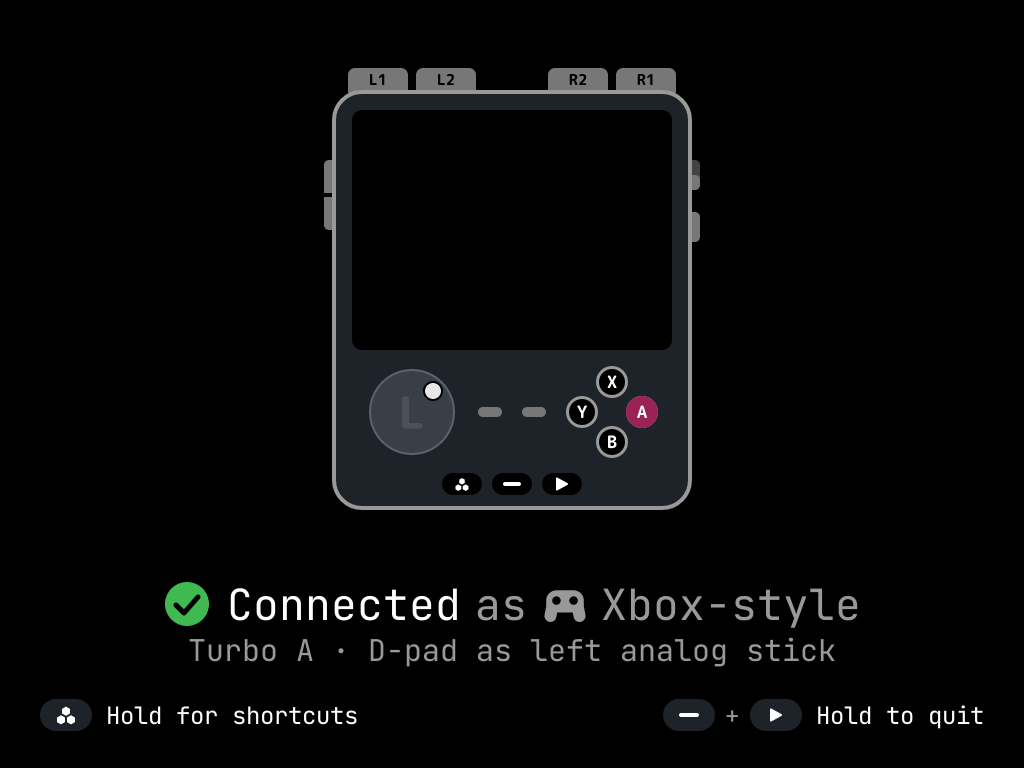
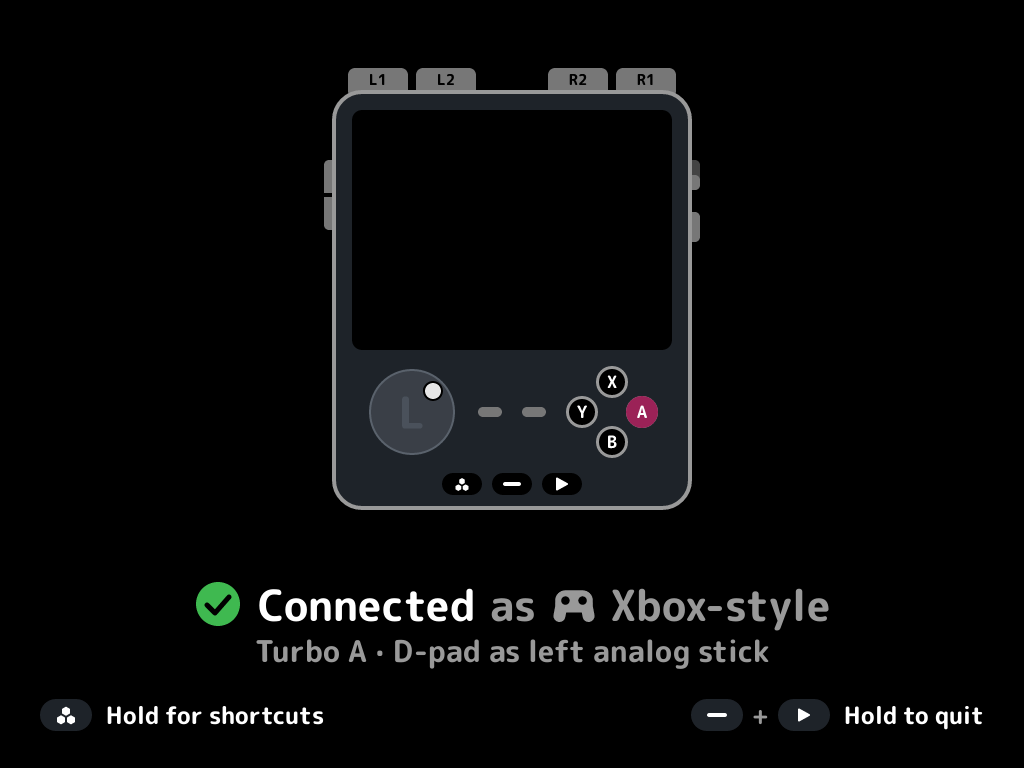
feat: render screenshots on the computer
The screen helper can size its window and save each frame as a BMP,
so just screenshots draws through SDL's offscreen driver on the
computer instead of reading the Brick's framebuffer over SSH. It uses
NextUI's font1.ttf, pinned by commit and SHA-256, and the dev shell
provides SDL2, SDL2_ttf and SDL2_image.

Changed region(s): [[0.1562, 0.75, 0.8438, 0.875], [0.625, 0.9062, 0.9688, 0.9688], [0.0938, 0.9062, 0.3438, 0.9688]]

diff --git a/screen/src/main.rs b/screen/src/main.rs
@@ -10,7 +10,7 @@ use layout::{Align, Op, Paint, Role};
 use pocket_controller::frame::FrameReader;
 use sdl::{Color, Font, Rect, Screen, Sdl};
 
-const USAGE: &str = "usage: pocket-controller-screen --font PATH [--assets DIR] [--device NAME]";
+const USAGE: &str = "usage: pocket-controller-screen --font PATH [--assets DIR] [--device NAME] [--size WIDTHxHEIGHT --snapshots DIR]";
 const BUFFERS: usize = 2;
 const LINE_SPACING_PERCENT: i32 = 115;
 
@@ -175,17 +175,20 @@ fn draw(screen: &Screen, fonts: &Fonts, images: &Images, ops: &[Op]) {
 fn run() -> Result<(), String> {
     let mut arguments = std::env::args().skip(1);
     let (mut font_path, mut assets, mut device_name) = (None, None, None);
+    let (mut size, mut snapshots) = (None, None);
     while let Some(argument) = arguments.next() {
         match (argument.as_str(), arguments.next()) {
             ("--font", Some(path)) => font_path = Some(path),
             ("--assets", Some(path)) => assets = Some(path),
             ("--device", Some(name)) => device_name = Some(name),
+            ("--size", Some(text)) => size = Some(parse_size(&text).ok_or(USAGE)?),
+            ("--snapshots", Some(path)) => snapshots = Some(path),
             _ => return Err(USAGE.to_string()),
         }
     }
     let font_path = font_path.ok_or(USAGE)?;
     let sdl = Sdl::load()?;
-    let screen = sdl.open_screen()?;
+    let screen = sdl.open_screen(size)?;
     let (width, height) = screen.size();
     let fonts = Fonts::open(&sdl, &font_path, width)?;
     let (device, images) = match (assets.as_deref(), device_name) {
@@ -211,6 +214,7 @@ fn run() -> Result<(), String> {
         ),
     };
     let mut reader = FrameReader::new();
+    let mut drawn: u32 = 0;
     for line in std::io::stdin().lock().lines() {
         let line = line.map_err(|error| format!("could not read frames: {error}"))?;
         match reader.push_line(&line) {
@@ -222,6 +226,10 @@ fn run() -> Result<(), String> {
                     &images,
                     &layout::layout(&frame, width, height, &measure, &device),
                 );
+                drawn += 1;
+                if let Some(directory) = &snapshots {
+                    screen.save_bmp(&format!("{directory}/{drawn}.bmp"))?;
+                }
             }
             Some(None) => eprintln!("pocket-controller-screen: skipped a frame it could not read"),
             None => {}
@@ -232,6 +240,11 @@ fn run() -> Result<(), String> {
         screen.present();
     }
     Ok(())
+}
+
+fn parse_size(text: &str) -> Option<(i32, i32)> {
+    let (width, height) = text.split_once('x')?;
+    Some((width.parse().ok()?, height.parse().ok()?))
 }
 
 fn main() -> ExitCode {

diff --git a/screen/src/sdl.rs b/screen/src/sdl.rs
@@ -99,6 +99,8 @@ pub struct Sdl {
     fill_rect: unsafe extern "C" fn(*mut Surface, *const Rect, u32) -> c_int,
     upper_blit: unsafe extern "C" fn(*mut Surface, *const Rect, *mut Surface, *mut Rect) -> c_int,
     free_surface: unsafe extern "C" fn(*mut Surface),
+    rw_from_file: unsafe extern "C" fn(*const c_char, *const c_char) -> *mut c_void,
+    save_bmp_rw: unsafe extern "C" fn(*mut Surface, *mut c_void, c_int) -> c_int,
     ttf_init: unsafe extern "C" fn() -> c_int,
     ttf_open_font: unsafe extern "C" fn(*const c_char, c_int) -> *mut Font,
     ttf_size_utf8: unsafe extern "C" fn(*mut Font, *const c_char, *mut c_int, *mut c_int) -> c_int,
@@ -137,6 +139,8 @@ impl Sdl {
             fill_rect: sdl.symbol("SDL_FillRect")?,
             upper_blit: sdl.symbol("SDL_UpperBlit")?,
             free_surface: sdl.symbol("SDL_FreeSurface")?,
+            rw_from_file: sdl.symbol("SDL_RWFromFile")?,
+            save_bmp_rw: sdl.symbol("SDL_SaveBMP_RW")?,
             ttf_init: ttf.symbol("TTF_Init")?,
             ttf_open_font: ttf.symbol("TTF_OpenFont")?,
             ttf_size_utf8: ttf.symbol("TTF_SizeUTF8")?,
@@ -160,7 +164,8 @@ impl Sdl {
         }
     }
 
-    pub fn open_screen(&self) -> Result<Screen<'_>, String> {
+    pub fn open_screen(&self, size: Option<(c_int, c_int)>) -> Result<Screen<'_>, String> {
+        let (width, height) = size.unwrap_or((0, 0));
         if unsafe { (self.init)(INIT_VIDEO) } < 0 {
             return Err(format!("SDL_Init failed: {}", self.error()));
         }
@@ -171,8 +176,8 @@ impl Sdl {
                 title.as_ptr(),
                 WINDOWPOS_UNDEFINED,
                 WINDOWPOS_UNDEFINED,
-                0,
-                0,
+                width,
+                height,
                 WINDOW_SHOWN,
             )
         };
@@ -276,6 +281,18 @@ impl Screen<'_> {
     pub fn blit(&self, image: *mut Surface, x: c_int, y: c_int) {
         let mut target = Rect { x, y, w: 0, h: 0 };
         unsafe { (self.sdl.upper_blit)(image, std::ptr::null(), self.surface, &mut target) };
+    }
+
+    pub fn save_bmp(&self, path: &str) -> Result<(), String> {
+        let file = CString::new(path).map_err(|error| error.to_string())?;
+        let stream = unsafe { (self.sdl.rw_from_file)(file.as_ptr(), c"wb".as_ptr()) };
+        if stream.is_null() {
+            return Err(format!("could not open {path}: {}", self.sdl.error()));
+        }
+        if unsafe { (self.sdl.save_bmp_rw)(self.surface, stream, 1) } < 0 {
+            return Err(format!("could not save {path}: {}", self.sdl.error()));
+        }
+        Ok(())
     }
 
     pub fn present(&self) {

diff --git a/README.md b/README.md
@@ -8,7 +8,7 @@ So far it has only been tested on the TrimUI Brick running NextUI. Other devices
 | --- | --- |
 | ![Connected as Xbox-style, with the live handheld showing pressed buttons and turbo on A and R1](docs/screenshots/connected.png) | ![The shortcuts view, labelling every button's MENU chord](docs/screenshots/shortcuts.png) |
 | **D-pad as an analog stick** | **Settings** |
-| ![The D-pad drawn as a stick well, its thumb following the emulated stick](docs/screenshots/analog.png) | ![Settings with the Mode row selected and its three choices beside the list](docs/screenshots/settings.png) |
+| ![The D-pad drawn as a stick well, its thumb following the emulated stick](docs/screenshots/analog.png) | ![Settings with the face buttons row selected and the layout the computer receives](docs/screenshots/settings.png) |
 
 pocket-controller turns the handheld's USB port into a USB device through the kernel's gadget framework (configfs and FunctionFS) and forwards the built-in controller to it.
 
